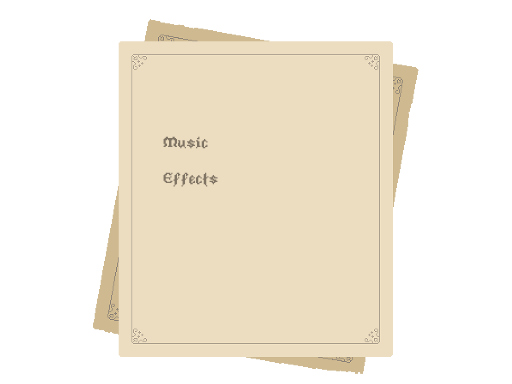
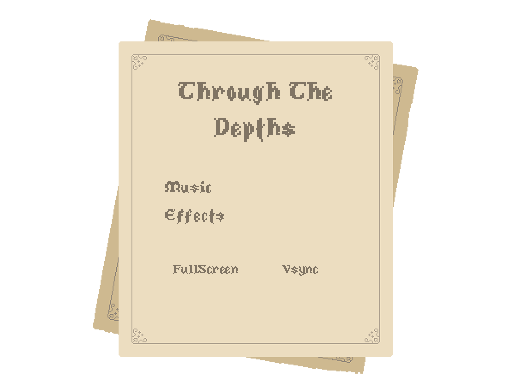
RSR - Menuses

diff --git a/ThroughTheDepths/Game/Source/SceneMainMenu.cpp b/ThroughTheDepths/Game/Source/SceneMainMenu.cpp
@@ -85,7 +85,7 @@ bool SceneMainMenu::Update(float dt)
 		SettingsInterface();
 		
 	}
-
+	if (showSettings) { app->render->DrawTexture(settingsGUI, 0, 0, 0); }
 	if (showCredits) {
 		ShowCredits();
 	}
@@ -185,7 +185,7 @@ bool SceneMainMenu::OnGuiMouseClickEvent(GuiControl* control)
 
 void SceneMainMenu::SettingsInterface()
 {
-	app->render->DrawTexture(settingsGUI, 0, 0, 0);
+	
 
 	ListItem<GuiControl*>* control;
 	for (control = controlsScene.start; control != NULL; control = control->next)

diff --git a/ThroughTheDepths/Game/Source/GuiControlImage.cpp b/ThroughTheDepths/Game/Source/GuiControlImage.cpp
@@ -80,4 +80,3 @@
 //	}
 //	return false;
 //}
-//
